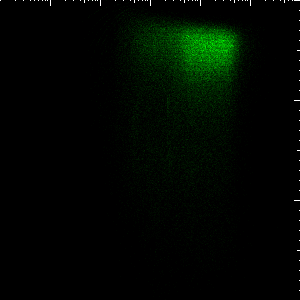
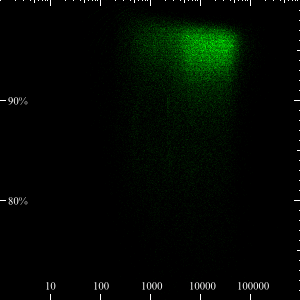
change README and examples to use axis labels

diff --git a/README.md b/README.md
@@ -5,8 +5,8 @@ Tool to quickly make a minimalistic 300x300 pixels image of read length (log tra
 ## DETAILS
 
 Both the x and y axis are fixed, allowing for comparison across datasets. The current settings should work for most (long-read) datasets, let me know if you disagree.
-The x-axis has log transformed read lengths, with a maximum length of 1M. The 'major' ticks on the axis are at 10, 100, 1000 and 100kb.
-The y-axis has the gap-compressed reference identity, ranging from 70% to 100% with a major tick at 80% and 90%. When using Phred-scaled accuracy scores, the y-axis ranges from Q0 to Q40, with major ticks at Q10, Q20, Q30.
+The x-axis has log transformed read lengths, with a maximum length of 1M.
+The y-axis has the gap-compressed reference identity, ranging from 70% to 100%. When using Phred-scaled accuracy scores, the y-axis ranges from Q0 to Q40.
 
 If your input dataset is large, you may want to consider to downsample it with `samtools view -h` and pipe that to kyber, e.g. `samtools view -h -s 0.01 alignment.cram | kyber -`
 
